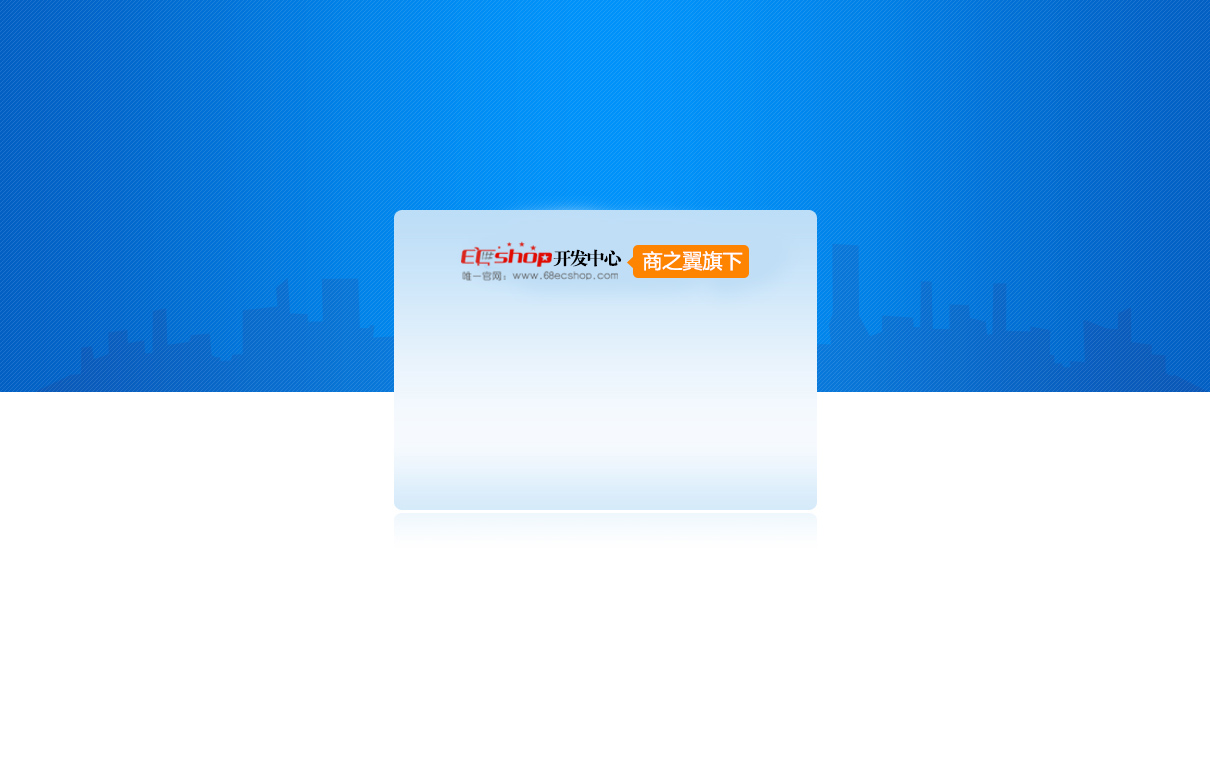
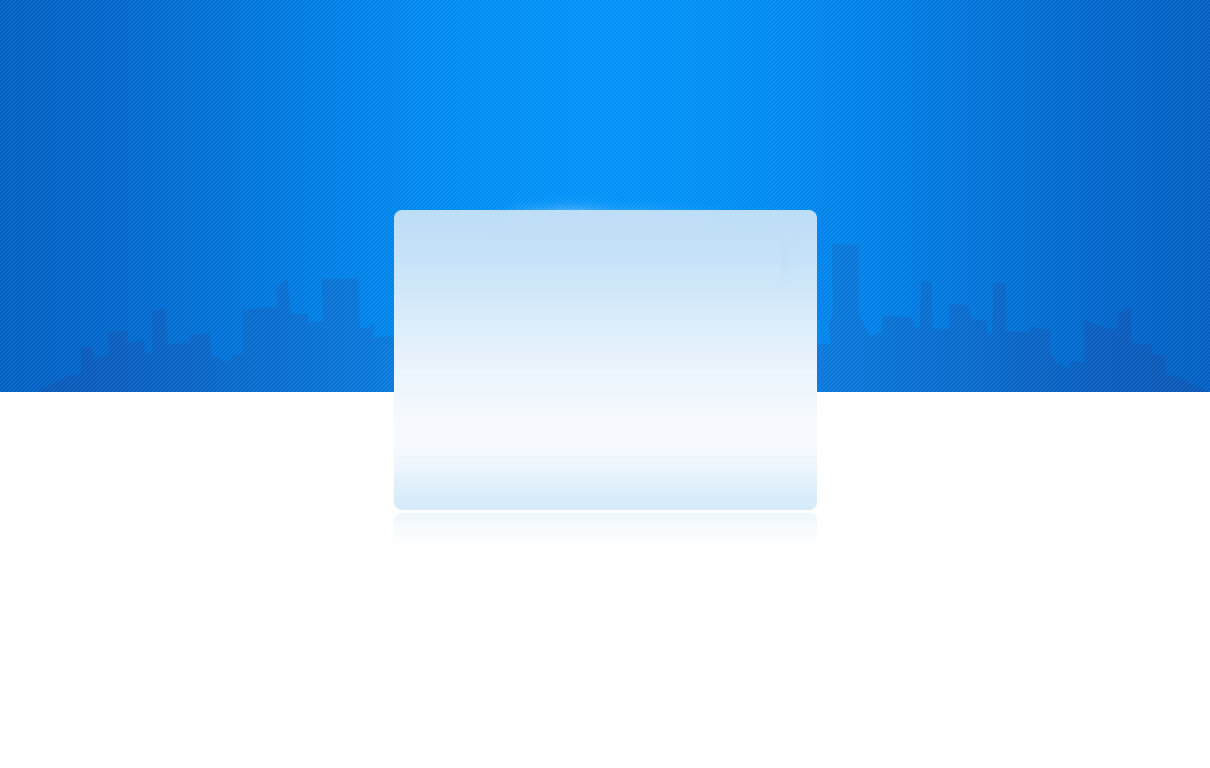
后台登录 背景图 更换；右侧在线咨询隐藏

Changed region(s): [[0.3669, 0.3125, 0.6421, 0.375]]

diff --git a/themes/68ecshop_xinjuwang/js/chat.float.min.js b/themes/68ecshop_xinjuwang/js/chat.float.min.js
@@ -1,1 +1,1 @@
-/*0517*/var mchat=mchat||{};mchat.initCss=function(){var a=[];a.push(".float0831{POSITION:fixed;TOP:110px;RIGHT:1px;_position:absolute; z-index:999999;}.float0831 A{COLOR:#00a0e9}.float0831 A:hover{COLOR:#ff8100;TEXT-DECORATION:none}.float0831 .floatL{POSITION:relative;WIDTH:28px;FLOAT:left}.float0831 .floatL A{TEXT-INDENT:-9999px;DISPLAY:block;FONT-SIZE:0px}.float0831 .floatR{BACKGROUND:url(themes/68ecshop_xinjuwang/images/float_bg.gif)}.float0831 .tp{BACKGROUND:url(themes/68ecshop_xinjuwang/images/float_bg.gif)}.float0831 .cn{BACKGROUND:url(themes/68ecshop_xinjuwang/images/float_bg.gif)}.float0831 .floatR{PADDING-BOTTOM:15px;WIDTH:130px;BACKGROUND-REPEAT:no-repeat;BACKGROUND-POSITION:-131px bottom;FLOAT:left;OVERFLOW:hidden}.float0831 .tp{BACKGROUND-REPEAT:no-repeat;BACKGROUND-POSITION:0% 0%;HEIGHT:10px}.float0831 .cn{BACKGROUND-REPEAT:repeat-y;BACKGROUND-POSITION:-262px 0px}.float0831 .cn H3{TEXT-INDENT:-9999px;HEIGHT:36px;FONT-SIZE:0px}.float0831 .cn UL{PADDING-BOTTOM:0px;PADDING-LEFT:14px;PADDING-RIGHT:14px;PADDING-TOP:0px}.float0831 .cn UL LI{BORDER-BOTTOM:#e6e5e4 1px solid;LINE-HEIGHT:36px;WORD-WRAP:break-word;HEIGHT:36px;OVERFLOW:hidden;WORD-BREAK:normal}.float0831 .titZx{BACKGROUND:url(themes/68ecshop_xinjuwang/images/float_s12.gif) no-repeat}.float0831 .titDh{BACKGROUND:url(themes/68ecshop_xinjuwang/images/float_s12.gif) no-repeat}.float0831 .titDc{BACKGROUND:url(themes/68ecshop_xinjuwang/images/float_s12.gif) no-repeat}.float0831 .icoZx{BACKGROUND:url(themes/68ecshop_xinjuwang/images/float_s12.gif) no-repeat}.float0831 .icoTc{BACKGROUND:url(themes/68ecshop_xinjuwang/images/float_s12.gif) no-repeat; text-indent:10px;}.float0831 .icoFf{BACKGROUND:url(themes/68ecshop_xinjuwang/images/float_s12.gif) no-repeat}.float0831 .icoTl{BACKGROUND:url(themes/68ecshop_xinjuwang/images/float_s12.gif) no-repeat}.float0831 .btnOpen{BACKGROUND:url(themes/68ecshop_xinjuwang/images/float_s12.gif) no-repeat}.float0831 .btnOpen_n{BACKGROUND:url(themes/68ecshop_xinjuwang/images/float_s12.gif) no-repeat}.float0831 .btnCtn{BACKGROUND:url(themes/68ecshop_xinjuwang/images/float_s12.gif) no-repeat;cursor:hand;}.float0831 .titZx{BACKGROUND-POSITION:5px -10px}.float0831 .titDh{BACKGROUND-POSITION:5px -66px}.float0831 .titDc{BACKGROUND-POSITION:5px -124px}.float0831 .icoZx{BACKGROUND-POSITION:2px -154px}.float0831 .icoTc{BACKGROUND-POSITION:0px -323px}.float0831 .icoFf{BACKGROUND-POSITION:2px -213px}.float0831 .icoTl{PADDING-LEFT:20px;DISPLAY:block;FONT-FAMILY:微软雅黑;BACKGROUND-POSITION:2px -266px;FLOAT:left}.float0831 .btnOpen{BACKGROUND-POSITION:-30px -396px}.float0831 .btnOpen_n{BACKGROUND-POSITION:0px -530px}.float0831 .btnCtn{BACKGROUND-POSITION:0px -396px}.float0831 .icoZx{PADDING-LEFT:28px;DISPLAY:block;FLOAT:left}.float0831 .icoTc{PADDING-LEFT:28px;DISPLAY:block;FLOAT:left}.float0831 .icoFf{PADDING-LEFT:28px;DISPLAY:block;FLOAT:left}.float0831 .btnOpen{POSITION:relative;WIDTH:28px;HEIGHT:118px;TOP:80px;LEFT:2px}.float0831 .btnOpen_n{POSITION:relative;WIDTH:28px;HEIGHT:118px;TOP:80px;LEFT:2px}.float0831 .btnCtn{POSITION:relative;WIDTH:28px;HEIGHT:118px;TOP:80px;LEFT:2px;cursor:hand;}.float0831 .btnOpen{TOP:118px;LEFT:1px}.float0831 .btnOpen_n{TOP:118px;LEFT:1px}.float0831 .btnCtn{TOP:118px;LEFT:2px}.float0831 UL LI H3.titDc A{WIDTH:80px;DISPLAY:block;HEIGHT:36px}.float0831 UL LI.top{BORDER-BOTTOM:#ace5f9 1px solid}.float0831 UL LI.bot{BORDER-BOTTOM-STYLE:none}.float0831 UL.webZx{PADDING-BOTTOM:0px;PADDING-LEFT:0px;WIDTH:164px;PADDING-RIGHT:0px;BACKGROUND:url(themes/68ecshop_xinjuwang/images/webzx_bg1.jpg) no-repeat;HEIGHT:14px;PADDING-TOP:0px}* html .float0831{position:absolute;left:expression(eval(document.documentElement.scrollRight+0));top:expression(eval(document.documentElement.scrollTop+100))}#Fchat1{display:none;}#Fchat2{width:29px;z-index:9999999;height:117px;position:fixed; right:0px; top:210px;cursor:pointer;display:block;BACKGROUND:url(themes/68ecshop_xinjuwang/images/online.gif) no-repeat;_position:absolute;_top:expression(eval(document.documentElement.scrollTop+190));}");try{var b=document.createStyleSheet();b.cssText=a.join("");}catch(c){var b=document.createElement("style");b.type="text/css";b.textContent=a.join("");document.getElementsByTagName("HEAD").item(0).appendChild(b);}};mchat.insertDom=function(){mchat.dom1=document.createElement("div");mchat.dom1.setAttribute("id","Fchat1");mchat.dom1.className="FCHATBG";mchat.dom1.innerHTML='<div class="float0831"><div class="floatL"><a class="btnCtn" title="关闭在线客服" href="javascript:void(0);" onclick="mchat.hide();">收缩</a></div><div id="divFloatToolsView" class="floatR"><div class="tp"></div><div class="cn"><ul><li class="top"><h3 class="titZx">QQ咨询</h3></li><li><a class="icoTc" href="http://wpa.b.qq.com/cgi/wpa.php?ln=1&key=XzgwMDAwNzM5Nl80NjYxMl84MDAwMDczOTZfMl8">售前咨询</a></li><li><a class="icoTc" href="http://wpa.b.qq.com/cgi/wpa.php?ln=1&key=XzgwMDAwNzM5Nl80NjYxMl84MDAwMDczOTZfMl8">售前咨询</a></li><li><a class="icoTc" href="http://wpa.b.qq.com/cgi/wpa.php?ln=1&key=XzgwMDAwNzM5Nl80NjYxMl84MDAwMDczOTZfMl8">售后服务</a></li><li class="bot"><a class="icoTc" href="http://wpa.b.qq.com/cgi/wpa.php?ln=1&key=XzgwMDAwNzM5Nl80NjYxMl84MDAwMDczOTZfMl8">渠道合作</a></li><li class="bot">QQ:800007396</li></ul><ul class="webZx"></ul><ul><li><h3 class="titDh">电话咨询</h3></li><li><span class="icoTl">400-033-5268</span></li><li class="bot"><h3 class="titDc"><a href="mailto:800007396@b.qq.com" target="_blank">投诉建议</a></h3></li></ul></div></div></div><div class="FC_click FC_click2"></div>';mchat.dom2=document.createElement("div");mchat.dom2.setAttribute("id","Fchat2");mchat.dom2.className="FCHATBG";mchat.dom2.onclick=function(){mchat.show();};document.body.appendChild(mchat.dom1);document.body.appendChild(mchat.dom2);};mchat.hide=function(){mchat.dom1.style.display="none";mchat.dom2.style.display="block";};mchat.show=function(){mchat.dom1.style.display="block";mchat.dom2.style.display="none";};mchat.insertExpeList=function(){if(!mchat.domExpr||!mchat.domNavBox){return;}var e=mchat.d;mchat.domExprList=document.createElement("ul");mchat.domExprList.className="FC_expr_list";var b="";for(var a=0,c=e.length;a<c;a++){}mchat.domExprList.innerHTML=b;mchat.domExpr.insertBefore(mchat.domExprList,mchat.domNavBox);};mchat.slideExprList=function(a){if(!mchat.initDomEvent){mchat.insertExpeList();mchat.initDomEvent=true;mchat.slideExprList();return;}if(a||!mchat.domExprList._current){M.addClass(mchat.domNavBox,"current");mchat.domExprList.style.display="block";mchat.domExprList._current=true;}else{M.removeClass(mchat.domNavBox,"current");mchat.domExprList.style.display="none";mchat.domExprList._current=false;}};mchat.initExpr=function(){if(!window._MCHAT_DATA_READY_){setTimeout(mchat.initExpr,500);return;}var slideExpr=function(height,exprText,showSlideNav){var d=mchat.d;var h=''+exprText+"</a></div>";if(showSlideNav){h+='<div style="height:15px;border-top:1px solid #ffc8da;background:#fff3f7"><div class="FC_slide_nav FCHATBG"></div></div>';}mchat.domExpr.innerHTML=h;mchat.domNavBox=M.$("#JS_slideChat_nav_box");mchat.domExpr.style.height="auto";mchat.domExpr.style.overflow="visible";};var insertExpr=function(){var d=mchat.d;if(d&&d.length){d.sort(function(){return Math.random()-0.5;});slideExpr(22,"体验馆("+d.length+")",true);if(d.length>8){var topT=190-26*(d.length-8);if(topT<0){topT=0;}mchat.dom1.style.top=topT+"px";}}else{if(d.all_expr){slideExpr(34,'<br /><span style="color:#999">('+d.all_expr+")</span>",false);}}};var d="";if(window._MCHAT_DATA_READY_&&window._MCHAT_DATA_READY_.html_content){try{eval("d="+window._MCHAT_DATA_READY_.html_content);}catch(e){}if(d){mchat.d=d;insertExpr();}}};mchat.openui=function(e,f){if((mchat.isOpen&&!mchat.isOpen.closed)){mchat.isOpen.focus();}else{if(M.getCookie("MC_open")=="openerCall"){M.setCookie("MC_open","",-1);mchat.openui(e,f);}else{if(M.getCookie("MC_open")){M.setCookie("MC_open","openerCall","session");if(window._chatInitData){for(var c in _chatInitData){f[c]=_chatInitData[c];}}for(var c in f){g.push(c+"="+encodeURIComponent(f[c]));}d+="?"+(new Date().getTime().toString(36))+"#"+g.join("&");var a=612;var b=512;mchat.isOpen=window.open(d,"MLL_CHAT","width="+a+",height="+b+",toolbar=no, menubar=no, scrollbars=yes, resizable=yes,location=no, status=no ,left="+(mchat.w-a)/2+",top=50");}}}};mchat.init=function(){mchat.initCss();mchat.insertDom();mchat.initExpr();};mchat.init();
+/*0517*/var mchat=mchat||{};mchat.initCss=function(){var a=[];a.push(".float0831{POSITION:fixed;TOP:110px;RIGHT:1px;_position:absolute; z-index:999999;}.float0831 A{COLOR:#00a0e9}.float0831 A:hover{COLOR:#ff8100;TEXT-DECORATION:none}.float0831 .floatL{POSITION:relative;WIDTH:28px;FLOAT:left}.float0831 .floatL A{TEXT-INDENT:-9999px;DISPLAY:block;FONT-SIZE:0px}.float0831 .floatR{BACKGROUND:url(themes/68ecshop_xinjuwang/images/float_bg.gif)}.float0831 .tp{BACKGROUND:url(themes/68ecshop_xinjuwang/images/float_bg.gif)}.float0831 .cn{BACKGROUND:url(themes/68ecshop_xinjuwang/images/float_bg.gif)}.float0831 .floatR{PADDING-BOTTOM:15px;WIDTH:130px;BACKGROUND-REPEAT:no-repeat;BACKGROUND-POSITION:-131px bottom;FLOAT:left;OVERFLOW:hidden}.float0831 .tp{BACKGROUND-REPEAT:no-repeat;BACKGROUND-POSITION:0% 0%;HEIGHT:10px}.float0831 .cn{BACKGROUND-REPEAT:repeat-y;BACKGROUND-POSITION:-262px 0px}.float0831 .cn H3{TEXT-INDENT:-9999px;HEIGHT:36px;FONT-SIZE:0px}.float0831 .cn UL{PADDING-BOTTOM:0px;PADDING-LEFT:14px;PADDING-RIGHT:14px;PADDING-TOP:0px}.float0831 .cn UL LI{BORDER-BOTTOM:#e6e5e4 1px solid;LINE-HEIGHT:36px;WORD-WRAP:break-word;HEIGHT:36px;OVERFLOW:hidden;WORD-BREAK:normal}.float0831 .titZx{BACKGROUND:url(themes/68ecshop_xinjuwang/images/float_s12.gif) no-repeat}.float0831 .titDh{BACKGROUND:url(themes/68ecshop_xinjuwang/images/float_s12.gif) no-repeat}.float0831 .titDc{BACKGROUND:url(themes/68ecshop_xinjuwang/images/float_s12.gif) no-repeat}.float0831 .icoZx{BACKGROUND:url(themes/68ecshop_xinjuwang/images/float_s12.gif) no-repeat}.float0831 .icoTc{BACKGROUND:url(themes/68ecshop_xinjuwang/images/float_s12.gif) no-repeat; text-indent:10px;}.float0831 .icoFf{BACKGROUND:url(themes/68ecshop_xinjuwang/images/float_s12.gif) no-repeat}.float0831 .icoTl{BACKGROUND:url(themes/68ecshop_xinjuwang/images/float_s12.gif) no-repeat}.float0831 .btnOpen{BACKGROUND:url(themes/68ecshop_xinjuwang/images/float_s12.gif) no-repeat}.float0831 .btnOpen_n{BACKGROUND:url(themes/68ecshop_xinjuwang/images/float_s12.gif) no-repeat}.float0831 .btnCtn{BACKGROUND:url(themes/68ecshop_xinjuwang/images/float_s12.gif) no-repeat;cursor:hand;}.float0831 .titZx{BACKGROUND-POSITION:5px -10px}.float0831 .titDh{BACKGROUND-POSITION:5px -66px}.float0831 .titDc{BACKGROUND-POSITION:5px -124px}.float0831 .icoZx{BACKGROUND-POSITION:2px -154px}.float0831 .icoTc{BACKGROUND-POSITION:0px -323px}.float0831 .icoFf{BACKGROUND-POSITION:2px -213px}.float0831 .icoTl{PADDING-LEFT:20px;DISPLAY:block;FONT-FAMILY:微软雅黑;BACKGROUND-POSITION:2px -266px;FLOAT:left}.float0831 .btnOpen{BACKGROUND-POSITION:-30px -396px}.float0831 .btnOpen_n{BACKGROUND-POSITION:0px -530px}.float0831 .btnCtn{BACKGROUND-POSITION:0px -396px}.float0831 .icoZx{PADDING-LEFT:28px;DISPLAY:block;FLOAT:left}.float0831 .icoTc{PADDING-LEFT:28px;DISPLAY:block;FLOAT:left}.float0831 .icoFf{PADDING-LEFT:28px;DISPLAY:block;FLOAT:left}.float0831 .btnOpen{POSITION:relative;WIDTH:28px;HEIGHT:118px;TOP:80px;LEFT:2px}.float0831 .btnOpen_n{POSITION:relative;WIDTH:28px;HEIGHT:118px;TOP:80px;LEFT:2px}.float0831 .btnCtn{POSITION:relative;WIDTH:28px;HEIGHT:118px;TOP:80px;LEFT:2px;cursor:hand;}.float0831 .btnOpen{TOP:118px;LEFT:1px}.float0831 .btnOpen_n{TOP:118px;LEFT:1px}.float0831 .btnCtn{TOP:118px;LEFT:2px}.float0831 UL LI H3.titDc A{WIDTH:80px;DISPLAY:block;HEIGHT:36px}.float0831 UL LI.top{BORDER-BOTTOM:#ace5f9 1px solid}.float0831 UL LI.bot{BORDER-BOTTOM-STYLE:none}.float0831 UL.webZx{PADDING-BOTTOM:0px;PADDING-LEFT:0px;WIDTH:164px;PADDING-RIGHT:0px;BACKGROUND:url(themes/68ecshop_xinjuwang/images/webzx_bg1.jpg) no-repeat;HEIGHT:14px;PADDING-TOP:0px}* html .float0831{position:absolute;left:expression(eval(document.documentElement.scrollRight+0));top:expression(eval(document.documentElement.scrollTop+100))}#Fchat1{display:none;}#Fchat2{width:29px;z-index:9999999;height:117px;position:fixed; right:0px; top:210px;cursor:pointer;display:none;BACKGROUND:url(themes/68ecshop_xinjuwang/images/online.gif) no-repeat;_position:absolute;_top:expression(eval(document.documentElement.scrollTop+190));}");try{var b=document.createStyleSheet();b.cssText=a.join("");}catch(c){var b=document.createElement("style");b.type="text/css";b.textContent=a.join("");document.getElementsByTagName("HEAD").item(0).appendChild(b);}};mchat.insertDom=function(){mchat.dom1=document.createElement("div");mchat.dom1.setAttribute("id","Fchat1");mchat.dom1.className="FCHATBG";mchat.dom1.innerHTML='<div class="float0831"><div class="floatL"><a class="btnCtn" title="关闭在线客服" href="javascript:void(0);" onclick="mchat.hide();">收缩</a></div><div id="divFloatToolsView" class="floatR"><div class="tp"></div><div class="cn"><ul><li class="top"><h3 class="titZx">QQ咨询</h3></li><li><a class="icoTc" href="http://wpa.b.qq.com/cgi/wpa.php?ln=1&key=XzgwMDAwNzM5Nl80NjYxMl84MDAwMDczOTZfMl8">售前咨询</a></li><li><a class="icoTc" href="http://wpa.b.qq.com/cgi/wpa.php?ln=1&key=XzgwMDAwNzM5Nl80NjYxMl84MDAwMDczOTZfMl8">售前咨询</a></li><li><a class="icoTc" href="http://wpa.b.qq.com/cgi/wpa.php?ln=1&key=XzgwMDAwNzM5Nl80NjYxMl84MDAwMDczOTZfMl8">售后服务</a></li><li class="bot"><a class="icoTc" href="http://wpa.b.qq.com/cgi/wpa.php?ln=1&key=XzgwMDAwNzM5Nl80NjYxMl84MDAwMDczOTZfMl8">渠道合作</a></li><li class="bot">QQ:800007396</li></ul><ul class="webZx"></ul><ul><li><h3 class="titDh">电话咨询</h3></li><li><span class="icoTl">400-033-5268</span></li><li class="bot"><h3 class="titDc"><a href="mailto:800007396@b.qq.com" target="_blank">投诉建议</a></h3></li></ul></div></div></div><div class="FC_click FC_click2"></div>';mchat.dom2=document.createElement("div");mchat.dom2.setAttribute("id","Fchat2");mchat.dom2.className="FCHATBG";mchat.dom2.onclick=function(){mchat.show();};document.body.appendChild(mchat.dom1);document.body.appendChild(mchat.dom2);};mchat.hide=function(){mchat.dom1.style.display="none";mchat.dom2.style.display="block";};mchat.show=function(){mchat.dom1.style.display="block";mchat.dom2.style.display="none";};mchat.insertExpeList=function(){if(!mchat.domExpr||!mchat.domNavBox){return;}var e=mchat.d;mchat.domExprList=document.createElement("ul");mchat.domExprList.className="FC_expr_list";var b="";for(var a=0,c=e.length;a<c;a++){}mchat.domExprList.innerHTML=b;mchat.domExpr.insertBefore(mchat.domExprList,mchat.domNavBox);};mchat.slideExprList=function(a){if(!mchat.initDomEvent){mchat.insertExpeList();mchat.initDomEvent=true;mchat.slideExprList();return;}if(a||!mchat.domExprList._current){M.addClass(mchat.domNavBox,"current");mchat.domExprList.style.display="block";mchat.domExprList._current=true;}else{M.removeClass(mchat.domNavBox,"current");mchat.domExprList.style.display="none";mchat.domExprList._current=false;}};mchat.initExpr=function(){if(!window._MCHAT_DATA_READY_){setTimeout(mchat.initExpr,500);return;}var slideExpr=function(height,exprText,showSlideNav){var d=mchat.d;var h=''+exprText+"</a></div>";if(showSlideNav){h+='<div style="height:15px;border-top:1px solid #ffc8da;background:#fff3f7"><div class="FC_slide_nav FCHATBG"></div></div>';}mchat.domExpr.innerHTML=h;mchat.domNavBox=M.$("#JS_slideChat_nav_box");mchat.domExpr.style.height="auto";mchat.domExpr.style.overflow="visible";};var insertExpr=function(){var d=mchat.d;if(d&&d.length){d.sort(function(){return Math.random()-0.5;});slideExpr(22,"体验馆("+d.length+")",true);if(d.length>8){var topT=190-26*(d.length-8);if(topT<0){topT=0;}mchat.dom1.style.top=topT+"px";}}else{if(d.all_expr){slideExpr(34,'<br /><span style="color:#999">('+d.all_expr+")</span>",false);}}};var d="";if(window._MCHAT_DATA_READY_&&window._MCHAT_DATA_READY_.html_content){try{eval("d="+window._MCHAT_DATA_READY_.html_content);}catch(e){}if(d){mchat.d=d;insertExpr();}}};mchat.openui=function(e,f){if((mchat.isOpen&&!mchat.isOpen.closed)){mchat.isOpen.focus();}else{if(M.getCookie("MC_open")=="openerCall"){M.setCookie("MC_open","",-1);mchat.openui(e,f);}else{if(M.getCookie("MC_open")){M.setCookie("MC_open","openerCall","session");if(window._chatInitData){for(var c in _chatInitData){f[c]=_chatInitData[c];}}for(var c in f){g.push(c+"="+encodeURIComponent(f[c]));}d+="?"+(new Date().getTime().toString(36))+"#"+g.join("&");var a=612;var b=512;mchat.isOpen=window.open(d,"MLL_CHAT","width="+a+",height="+b+",toolbar=no, menubar=no, scrollbars=yes, resizable=yes,location=no, status=no ,left="+(mchat.w-a)/2+",top=50");}}}};mchat.init=function(){mchat.initCss();mchat.insertDom();mchat.initExpr();};mchat.init();
